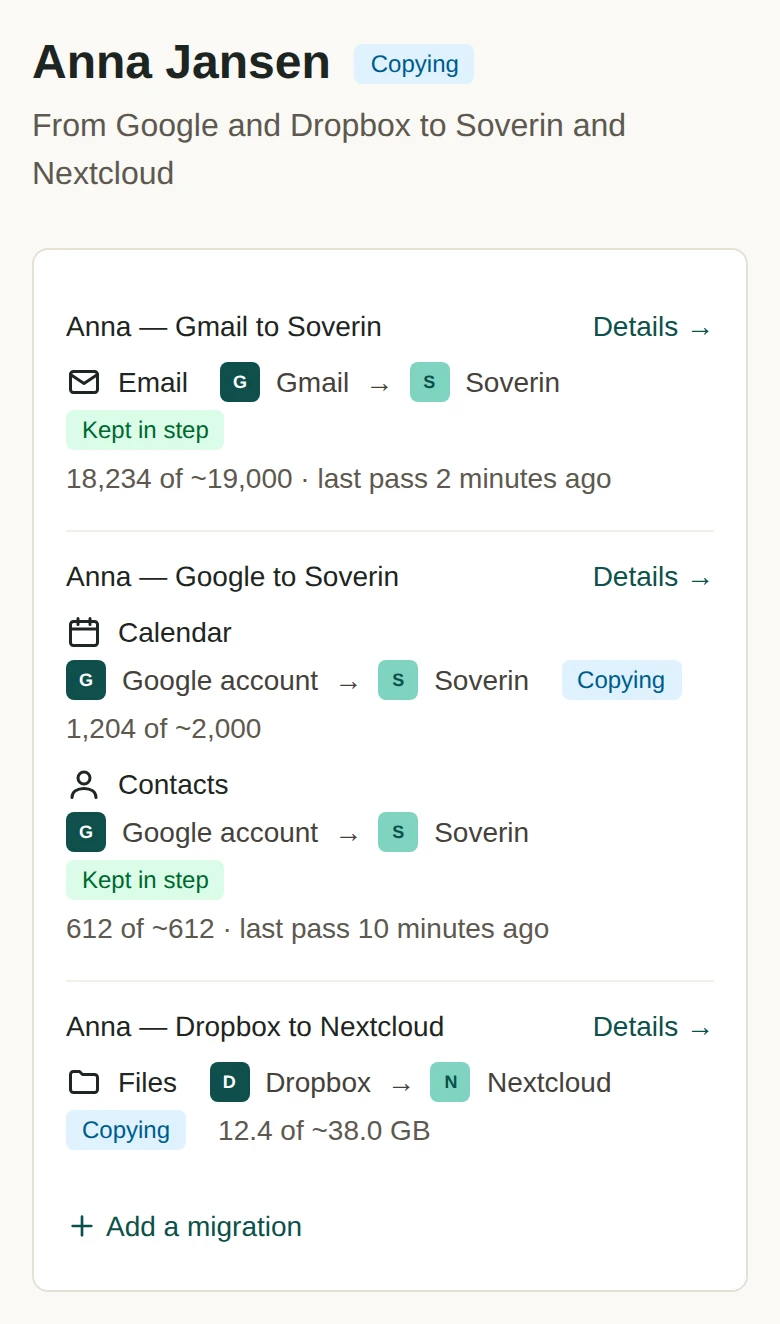
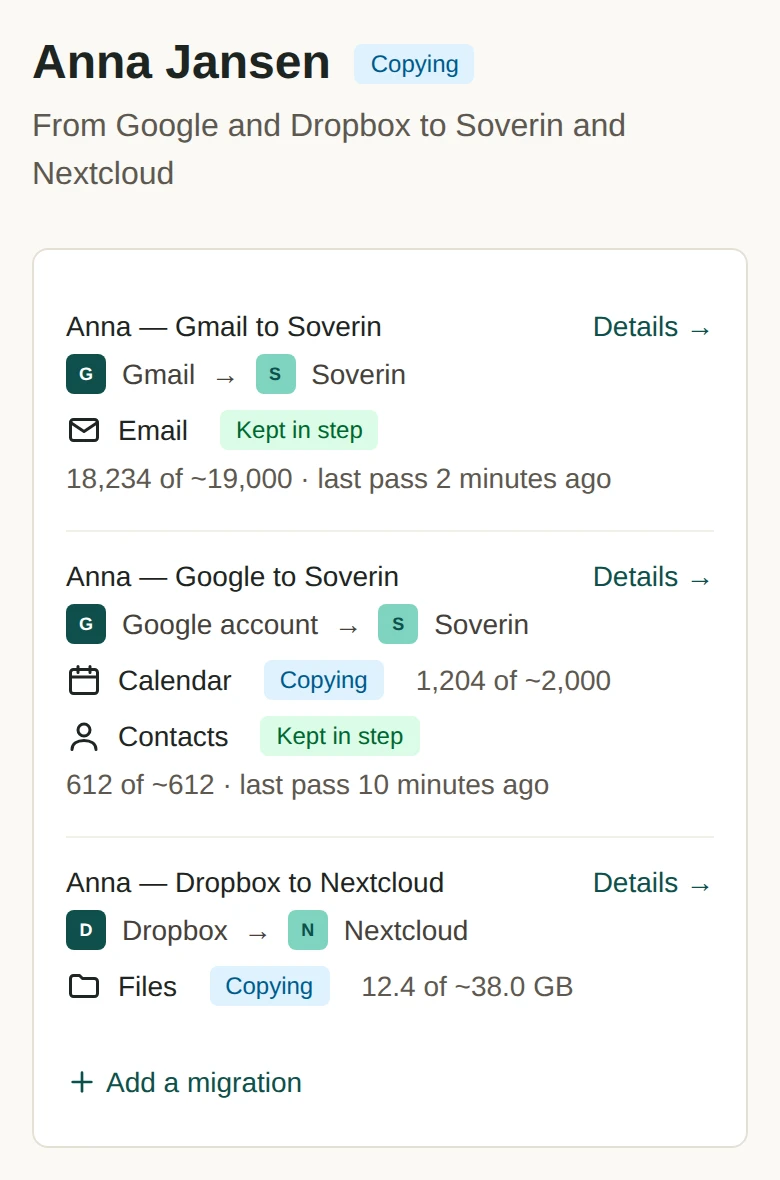
fix(web): on a phone, a migration draws its two tiles once, under its name (#1638)
* fix(web): on a phone, a migration draws its two tiles once, under its name

The owner's answer to workplan 0159 row 19 (round 2, 2026-10-19): on a
phone only, where from and where to appear once, right under the
migration's name, for every migration, not only one of several data
types. Each data type keeps its icon, name, stage and progress. On a
computer nothing changes. No new words.

- MigrationLines.tsx: a new phone-only MigrationTiles (flex w-full
  sm:hidden) draws the pair once; each line draws its own pair hidden
  sm:flex. Only CSS chooses, so the page holds the same words at both
  widths, and the copy not shown is display: none, which a screen
  reader skips: it hears the pair once a migration on a phone and once
  a line on a computer.
- Mappings.tsx and Person.tsx draw MigrationTiles right under the
  name: on Migrations between the name and its actions, a row of its
  own; on a person's page under the name and Details.
- Tests: a line's pair is hidden below sm and nothing else of it is;
  MigrationTiles is sm:hidden and names both sides with the sr-only
  "to" / "naar"; Migrations and a person's page draw one pair per
  migration under its name and before its actions, lines and what
  waits for a grant. 5 red on main, 95 of 95 green after.
- site/app-screen: taken again with scripts/shoot-the-app-screen.mjs.
  The wide pictures are byte-identical; the English phone picture is
  590 pixels high instead of 662, the Dutch one redrawn at the same
[…]

diff --git a/apps/web/src/pages/Mappings.unit.test.tsx b/apps/web/src/pages/Mappings.unit.test.tsx
@@ -888,3 +888,85 @@ describe('Migrations — a line per data type says where it is (0154 T1 (b))', (
     expect(within(card).queryByText('Ready to switch')).not.toBeInTheDocument();
   });
 });
+
+/**
+ * ON A PHONE, A MIGRATION DRAWS ITS TWO TILES ONCE, UNDER ITS NAME (the owner,
+ * 2026-10-19, workplan 0159 round 2; `MigrationLines.tsx`'s header). Every
+ * migration, whether it moves one data type or several: its pair right under
+ * its name, before its actions and lines, below `sm` only; each line's own pair
+ * from `sm` up only. jsdom applies no CSS, so this reads the classes. The pair
+ * sits in the name's row, outside the actions that stop the click, so tapping
+ * it opens the migration as the rest of it does.
+ */
+describe('Migrations — on a phone, a migration draws its two tiles once, under its name (2026-10-19)', () => {
+  const MAIL = sampleMapping({ id: 'm-mail', name: 'Anna — Gmail to Soverin', sourceType: 'gmail', targetType: 'soverin', domains: ['email'] });
+  const GOOGLE = sampleMapping({
+    id: 'm-google',
+    name: 'Anna — Google to Soverin',
+    sourceType: 'google',
+    targetType: 'soverin',
+    domains: ['calendar', 'contact'],
+  });
+  const LOOSE = sampleMapping({ id: 'm-loose', name: 'Inbox', sourceType: 'o365', targetType: 'nextcloud', domains: ['email', 'file'] });
+  /** Every pair of tiles in `root`: the arrow's parent. */
+  const pairsIn = (root: ParentNode) =>
+    [...root.querySelectorAll('span[aria-hidden="true"]')].filter((a) => a.textContent === '→').map((a) => a.parentElement!);
+  const before = (a: Node, b: Node) => Boolean(a.compareDocumentPosition(b) & Node.DOCUMENT_POSITION_FOLLOWING) && !a.contains(b);
+
+  it('draws one pair per migration under its name, before its actions and lines, and each line’s from sm up only', async () => {
+    listMock.mockResolvedValue([MAIL, GOOGLE, LOOSE]);
+    peopleMock.mockResolvedValue({
+      people: [
+        person('p-anna', 'Anna', [
+          { id: 'm-mail', status: 'active' },
+          { id: 'm-google', status: 'active' },
+        ]),
+      ],
+      unassigned: [{ id: 'm-loose', status: 'active' }],
+    });
+
+    renderMappings();
+    await screen.findByRole('region', { name: 'Anna' });
+
+    for (const m of [MAIL, GOOGLE, LOOSE]) {
+      const block = document.querySelector<HTMLElement>(`[data-migration="${m.id}"]`)!;
+      const pairs = pairsIn(block);
+      const once = pairs.filter((p) => p.classList.contains('sm:hidden'));
+      const perLine = pairs.filter((p) => p.classList.contains('hidden') && p.classList.contains('sm:flex'));
+      expect(once, `${m.name}: not one pair on a phone`).toHaveLength(1);
+      expect(perLine, `${m.name}: a line draws its pair on a phone`).toHaveLength(m.domains.length);
+      expect(pairs).toHaveLength(m.domains.length + 1);
+      const [tiles] = once;
+      // A row of its own in the name's wrapping row: under the name, above the actions.
+      expect(tiles!.classList).toContain('w-full');
+      const name = within(block).getByRole('link', { name: m.name });
+      const actions = within(block).getByTitle('Delete').parentElement!;
+      expect(before(name, tiles!), `${m.name}: the pair is above the name`).toBe(true);
+      expect(before(tiles!, actions), `${m.name}: the pair is below the actions`).toBe(true);
+      expect(before(tiles!, block.querySelector('[data-domain]')!), `${m.name}: the pair is below the lines`).toBe(true);
+      // In the name's own row, not inside the actions, which stop the click.
+      expect(tiles!.parentElement, `${m.name}: the pair is not in the name's row`).toBe(name.parentElement);
+      expect(actions.contains(tiles!), `${m.name}: the pair is inside the actions`).toBe(false);
+    }
+  });
+
+  it('opens the migration when its pair is tapped, as the rest of it does (2026-08-11)', async () => {
+    listMock.mockResolvedValue([MAIL]);
+    render(
+      <QueryClientProvider client={new QueryClient({ defaultOptions: { queries: { retry: false } } })}>
+        <MemoryRouter initialEntries={['/mappings']}>
+          <Routes>
+            <Route path="/mappings" element={<Mappings />} />
+            <Route path="/mappings/:id" element={<p>the migration page</p>} />
+          </Routes>
+        </MemoryRouter>
+      </QueryClientProvider>,
+    );
+
+    await screen.findByRole('link', { name: MAIL.name });
+    const block = document.querySelector<HTMLElement>('[data-migration="m-mail"]')!;
+    const [tiles] = pairsIn(block).filter((p) => p.classList.contains('sm:hidden'));
+    fireEvent.click(tiles!);
+    expect(await screen.findByText('the migration page')).toBeInTheDocument();
+  });
+});

diff --git a/apps/web/src/components/MigrationLines.unit.test.tsx b/apps/web/src/components/MigrationLines.unit.test.tsx
@@ -9,11 +9,11 @@
  * photos, and before it starts it says it waits for the export, with how to
  * make one, in either language.
  */
-import { render, screen } from '@testing-library/react';
+import { render, screen, within } from '@testing-library/react';
 import { MemoryRouter } from 'react-router';
 import { afterEach, describe, expect, it } from 'vitest';
 import { LocaleProvider } from '../i18n/index.tsx';
-import { MigrationLines } from './MigrationLines.tsx';
+import { MigrationLines, MigrationTiles } from './MigrationLines.tsx';
 import type { LinesProgress } from '../services/stage-line.ts';
 
 const ago = (ms: number) => new Date(Date.now() - ms).toISOString();
@@ -163,5 +163,74 @@ describe('a mail server’s line names both sides in plain words (2026-10-18)', 
     draw('nl');
     expect(screen.getByText('Andere mailaanbieder (IMAP)')).toBeInTheDocument();
     expect(screen.getByText('Mailserver (JMAP)')).toBeInTheDocument();
+  });
+});
+
+/**
+ * ON A PHONE, A MIGRATION DRAWS ITS TWO TILES ONCE, UNDER ITS NAME (the owner,
+ * 2026-10-19, workplan 0159 round 2). Below `sm` every line repeated *Gmail →
+ * Soverin* under a migration whose name already said it, three rows a line.
+ * There the page draws the pair once (`MigrationTiles`), and each line keeps
+ * its data type, stage and sentence; from `sm` up each line draws the pair, as
+ * it always did. Only CSS chooses, which jsdom does not apply, so these read
+ * the classes: the copy not shown is `display: none`, so a screen reader hears
+ * the pair once per migration on a phone, and once per line on a computer.
+ */
+describe('on a phone, a migration draws its two tiles once, under its name (2026-10-19)', () => {
+  /** Every pair of tiles in `root`: the arrow's parent. */
+  const pairsIn = (root: ParentNode) =>
+    [...root.querySelectorAll('span[aria-hidden="true"]')].filter((a) => a.textContent === '→').map((a) => a.parentElement!);
+
+  it('draws a line’s tiles from sm up only, and the rest of the line at every width', () => {
+    render(
+      <LocaleProvider>
+        <MigrationLines migration={MAIL} progress={progress({ state: 'not_run' })} />
+      </LocaleProvider>,
+    );
+    const lines = [...document.querySelectorAll('li[data-domain]')];
+    expect(lines).toHaveLength(2);
+    for (const li of lines) {
+      const pairs = pairsIn(li);
+      expect(pairs).toHaveLength(1);
+      expect(pairs[0]!.classList, 'a line’s tiles still show on a phone').toContain('hidden');
+      expect(pairs[0]!.classList, 'a line’s tiles are gone on a computer').toContain('sm:flex');
+      expect(pairs[0]!.classList).not.toContain('flex');
+      // Nothing else of the line is hidden at any width: its data type, stage
+      // and sentence are what a phone reads of it.
+      expect([...li.querySelectorAll('.hidden, .sm\\:hidden')]).toEqual(pairs);
+    }
+    expect(screen.getByText('Email')).toBeInTheDocument();
+    expect(screen.getByText('Calendar')).toBeInTheDocument();
+    expect(screen.getByText('18,234 of ~19,000 · last pass 2 minutes ago')).toBeInTheDocument();
+  });
+
+  it('draws the migration’s pair below sm only, naming where from and where to, heard as such', () => {
+    render(
+      <LocaleProvider>
+        <MigrationTiles migration={MAIL} />
+      </LocaleProvider>,
+    );
+    const pairs = pairsIn(document.body);
+    expect(pairs).toHaveLength(1);
+    expect(pairs[0]!.classList, 'the migration’s pair is not drawn on a phone').toContain('flex');
+    expect(pairs[0]!.classList, 'the migration’s pair shows on a computer too').toContain('sm:hidden');
+    expect(pairs[0]!.classList).not.toContain('hidden');
+    expect(pairs[0]!.textContent).toBe('GGmail→toSSoverin');
+    expect(within(pairs[0]!).getByText('to')).toHaveClass('sr-only');
+  });
+
+  it('nl: Gmail naar Soverin, in the words a line says it with', () => {
+    window.localStorage.setItem('ownpace.locale', 'nl');
+    render(
+      <LocaleProvider>
+        <MigrationTiles migration={MAIL} />
+        <MigrationLines migration={MAIL} />
+      </LocaleProvider>,
+    );
+    const [once, ...lines] = pairsIn(document.body);
+    expect(once!.textContent).toBe('GGmail→naarSSoverin');
+    expect(within(once!).getByText('naar')).toHaveClass('sr-only');
+    // The same words at both widths: only which copy is drawn changes.
+    expect(lines.map((l) => l.textContent)).toEqual(['GGmail→naarSSoverin', 'GGmail→naarSSoverin']);
   });
 });

diff --git a/apps/web/src/components/MigrationLines.tsx b/apps/web/src/components/MigrationLines.tsx
@@ -13,6 +13,19 @@
  * a line falls back to what the list carries: the migration's stage, and its
  * last pass. That reading cannot say *Ready to switch*, since the list does not
  * carry the check, and says *Kept in step* instead.
+ *
+ * ON A PHONE THE TILES ARE DRAWN ONCE (workplan 0159 row 19; the owner,
+ * 2026-10-19: always, not only for a migration of several data types): below
+ * `sm` every line repeating *Microsoft 365 account → Nextcloud* under a
+ * migration already named for it took three rows a line. There the caller
+ * draws the pair once, right under the migration's name (`MigrationTiles`),
+ * and each line keeps its data type, chip and sentence; from `sm` up each line
+ * draws it as before, and the caller's pair is gone. Only CSS chooses, so the
+ * words in the page are the same at both widths, and the copy not shown is
+ * `display: none`, which a screen reader does not read either: it hears the
+ * pair once a migration on a phone, and once a line on a computer. A page that
+ * draws `MigrationLines` draws `MigrationTiles` with it, or on a phone its
+ * lines say neither where from nor where to.
  */
 import React from 'react';
 import { Link } from 'react-router';
@@ -126,6 +139,36 @@ export function useLineSentence(): (stage: Stage | undefined, facts: SentenceFac
   };
 }
 
+/** Where from and where to, as two tiles. `className` says at which widths it shows (see the header). */
+const Tiles: React.FC<{ migration: Pick<MigrationLineFacts, 'sourceType' | 'targetType'>; className: string }> = ({
+  migration: m,
+  className,
+}) => {
+  const t = useT();
+  return (
+    <span className={`${className} items-center gap-2 text-gray-700`}>
+      <ProviderTile type={m.sourceType} role="source" size={20} />
+      <span aria-hidden="true">→</span>
+      {/* Heard, not seen: the arrow is drawn and the tiles' letters are
+          hidden, so without it a screen reader said *Gmail Soverin*. */}
+      <span className="sr-only">{t('people.line.to')}</span>
+      <ProviderTile type={m.targetType} role="target" size={20} />
+    </span>
+  );
+};
+
+/**
+ * The pair once, under a migration's name, on a phone only (see the header).
+ * Full width, so in a wrapping row of the name and its actions it takes a row
+ * of its own between them.
+ */
+export const MigrationTiles: React.FC<{
+  migration: Pick<MigrationLineFacts, 'sourceType' | 'targetType'>;
+  className?: string;
+}> = ({ migration, className }) => (
+  <Tiles migration={migration} className={['flex w-full text-sm sm:hidden', className].filter(Boolean).join(' ')} />
+);
+
 export const MigrationLines: React.FC<{ migration: MigrationLineFacts; progress?: LinesProgress }> = ({
   migration: m,
   progress,
@@ -160,14 +203,7 @@ export const MigrationLines: React.FC<{ migration: MigrationLineFacts; progress?
             ) : (
               <DataTypeLabel domain={domain} size={18} />
             )}
-            <span className="flex items-center gap-2 text-gray-700">
-              <ProviderTile type={m.sourceType} role="source" size={20} />
-              <span aria-hidden="true">→</span>
-              {/* Heard, not seen: the arrow is drawn and the tiles' letters are
-                  hidden, so without it a screen reader said *Gmail Soverin*. */}
-              <span className="sr-only">{t('people.line.to')}</span>
-              <ProviderTile type={m.targetType} role="target" size={20} />
-            </span>
+            <Tiles migration={m} className="hidden sm:flex" />
             {stage && <StateChip entity="stage" state={stage} />}
             {waitsForExport ? (
               <span className="text-gray-600">

diff --git a/apps/web/src/pages/Person.unit.test.tsx b/apps/web/src/pages/Person.unit.test.tsx
@@ -654,3 +654,54 @@ describe("the pace of their migrations (0157 T5)", () => {
     expect(screen.queryByText(STRINGS.en['pace.free.eachMigration'], { exact: false })).toBeNull();
   });
 });
+
+/**
+ * ON A PHONE, A MIGRATION DRAWS ITS TWO TILES ONCE, UNDER ITS NAME (the owner,
+ * 2026-10-19, workplan 0159 round 2; `MigrationLines.tsx`'s header). Every
+ * migration, whether it moves one data type or several: its pair under its
+ * name and Details, before what waits for the grant and its lines, below `sm`
+ * only; each line's own pair from `sm` up only. jsdom applies no CSS, so this
+ * reads the classes.
+ */
+describe('on a phone, a migration draws its two tiles once, under its name (2026-10-19)', () => {
+  /** Every pair of tiles in `root`: the arrow's parent. */
+  const pairsIn = (root: ParentNode) =>
+    [...root.querySelectorAll('span[aria-hidden="true"]')].filter((a) => a.textContent === '→').map((a) => a.parentElement!);
+  const before = (a: Node, b: Node) => Boolean(a.compareDocumentPosition(b) & Node.DOCUMENT_POSITION_FOLLOWING) && !a.contains(b);
+
+  it('draws one pair per migration under its name, before its lines, and each line’s from sm up only', async () => {
+    const CALENDAR = migration({ id: 'm-cal', name: 'Anna calendar', sourceType: 'google', domains: ['calendar', 'contact'] });
+    listMock.mockResolvedValue([MAIL, FILES, CALENDAR]);
+    peopleMock.mockResolvedValue({
+      people: [
+        person('p-anna', 'Anna Jansen', [
+          { id: 'm-mail', status: 'active' },
+          { id: 'm-files', status: 'active' },
+          { id: 'm-cal', status: 'active' },
+        ]),
+      ],
+      unassigned: [],
+    });
+    vi.mocked(personLinkApi.awaiting).mockResolvedValue([{ mappingId: 'm-mail', then: 'ran_before' }]);
+
+    renderAt();
+    await screen.findByText('Waits for Anna Jansen to connect again.');
+
+    for (const m of [MAIL, FILES, CALENDAR]) {
+      const block = document.querySelector<HTMLElement>(`[data-app-screen="migrations"] [data-migration="${m.id}"]`)!;
+      const pairs = pairsIn(block);
+      const once = pairs.filter((p) => p.classList.contains('sm:hidden'));
+      const perLine = pairs.filter((p) => p.classList.contains('hidden') && p.classList.contains('sm:flex'));
+      expect(once, `${m.name}: not one pair on a phone`).toHaveLength(1);
+      expect(perLine, `${m.name}: a line draws its pair on a phone`).toHaveLength(m.domains.length);
+      expect(pairs).toHaveLength(m.domains.length + 1);
+      const [tiles] = once;
+      expect(before(within(block).getByText(m.name), tiles!), `${m.name}: the pair is above the name`).toBe(true);
+      expect(before(within(block).getByRole('link', { name: 'Details →' }), tiles!), `${m.name}: the pair is above Details`).toBe(true);
+      expect(before(tiles!, block.querySelector('[data-domain]')!), `${m.name}: the pair is below the lines`).toBe(true);
+    }
+    const mail = document.querySelector('[data-app-screen="migrations"] [data-migration="m-mail"]')!;
+    const [tiles] = pairsIn(mail).filter((p) => p.classList.contains('sm:hidden'));
+    expect(before(tiles!, mail.querySelector('[data-awaiting-grant]')!), 'the pair is below what waits for the grant').toBe(true);
+  });
+});

diff --git a/apps/web/src/pages/Person.tsx b/apps/web/src/pages/Person.tsx
@@ -60,7 +60,7 @@ import { waitingOn } from '../services/needs-you.ts';
 import { checksOf } from '../services/cutover-steps.ts';
 import StateChip from '../components/StateChip.tsx';
 import { PaceLine } from '../components/PaceLine.tsx';
-import { MigrationLines, lineStages } from '../components/MigrationLines.tsx';
+import { MigrationLines, MigrationTiles, lineStages } from '../components/MigrationLines.tsx';
 import { CutoverSteps } from '../components/CutoverSteps.tsx';
 import { fetchProgress } from '../services/progress-service.ts';
 import { progressRefetchInterval } from '../services/progress-poll.ts';
@@ -309,6 +309,7 @@ const Person: React.FC = () => {
                   {t('person.details')} →
                 </Link>
               </div>
+              <MigrationTiles migration={m} className="mt-1" />
               {awaiting.has(m.id) && (
                 <p data-awaiting-grant={awaiting.get(m.id)} className="mt-1 flex items-start gap-1.5 text-sm text-gray-700">
                   <Clock className="w-4 h-4 mt-0.5 flex-shrink-0 text-gray-500" aria-hidden="true" />

diff --git a/apps/web/src/pages/Mappings.tsx b/apps/web/src/pages/Mappings.tsx
@@ -52,7 +52,7 @@ import { freePaceRefusal, referenceIn, serverMessage } from '../services/api.ts'
 import { SendItToUs } from '../components/SendItToUs.tsx';
 import StateChip from '../components/StateChip.tsx';
 import { providerName } from '../components/ProviderTile.tsx';
-import { MigrationLines, lineStages } from '../components/MigrationLines.tsx';
+import { MigrationLines, MigrationTiles, lineStages } from '../components/MigrationLines.tsx';
 import { fetchProgress } from '../services/progress-service.ts';
 import { progressRefetchInterval } from '../services/progress-poll.ts';
 import { linesProgressOf } from '../services/stage-line.ts';
@@ -258,6 +258,7 @@ const Mappings: React.FC = () => {
             >
               {m.name}
             </Link>
+            <MigrationTiles migration={m} />
             <div className="flex flex-wrap items-center gap-x-4 gap-y-2" onClick={(e) => e.stopPropagation()}>
               {m.status === 'active' ? (
                 <>
